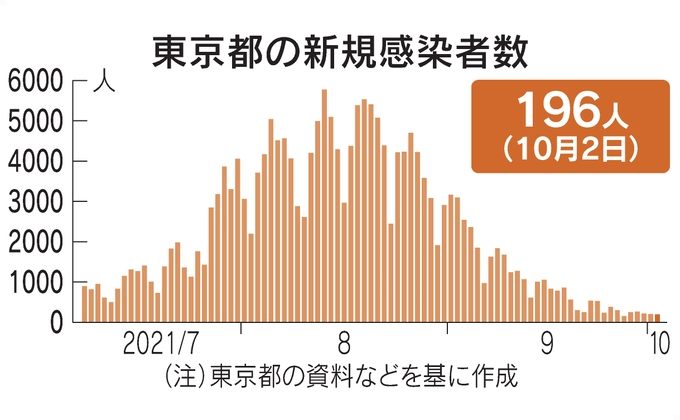
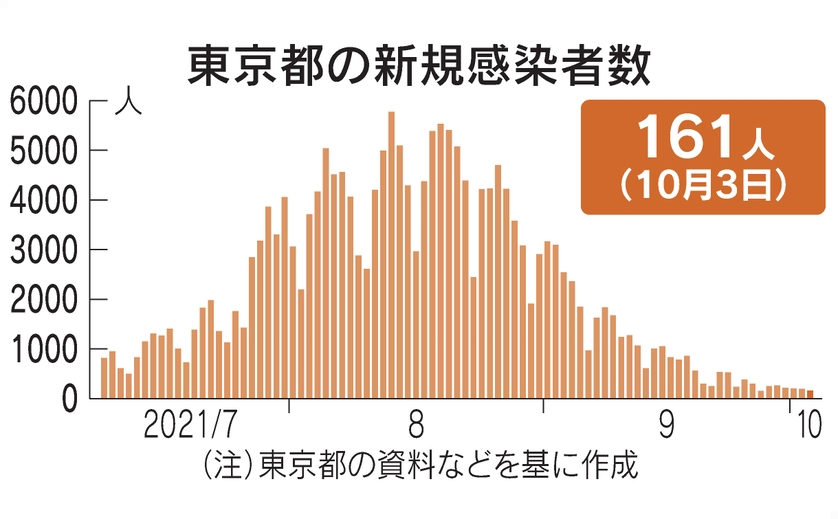
regular update

diff --git a/parts/news.php b/parts/news.php
@@ -27,6 +27,11 @@
         </li><br>
         <li>
                 <i class="far fa-file-alt"></i>
+                <a href="https://www.nikkei.com/article/DGXZQOCA270CH0X20C21A9000000/" target="blank" rel="noopener">
+                2回接種しても…知っておきたいブレークスルー感染</a>
+        </li><br>
+        <li>
+                <i class="far fa-file-alt"></i>
                 <a href="https://www.nikkei.com/article/DGXZQOCA121BK0S1A710C2000000/" target="blank" rel="noopener">
                 知っておきたいワクチン証明書　どう申請？海外は？</a>
         </li><br>
@@ -52,6 +57,25 @@
         </li>
 
     <hr> -->
+        2021年10月03日
+    
+        <li>
+                <i class="far fa-file-alt"></i>
+                <a href="https://www.nikkei.com/article/DGXZQOCC031JC0T01C21A0000000/" target="blank" rel="noopener">
+                東京都、新たに161人感染　7日平均で前週の56.9%</a>
+        </li>
+        <li>
+                <i class="far fa-file-alt"></i>
+                <a href="https://www.nikkei.com/article/DGXZQOCC01AC20R01C21A0000000/" target="blank" rel="noopener">
+                都内繁華街で夜の人出2ケタ増　緊急事態解除、初の週末</a>
+        </li>
+        <li>
+                <i class="far fa-file-alt"></i>
+                <a href="https://www.nikkei.com/article/DGXZQOUE2128M0R20C21A9000000/" target="blank" rel="noopener">
+                オンライン診療の強化急務　医師確保進まず「泥縄」状態 ウィズコロナ戦略を探る</a>
+        </li>
+
+    <hr>
         2021年10月02日
     
         <li>
